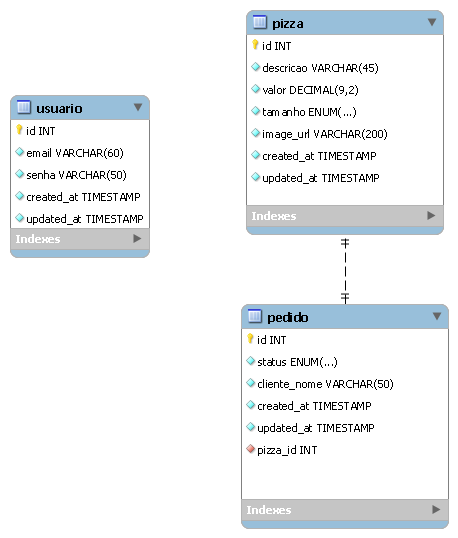
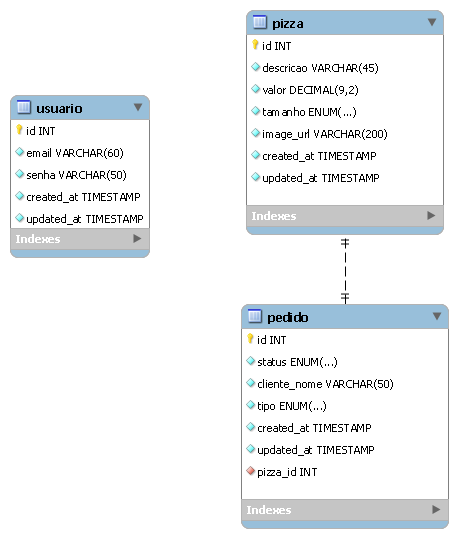
Update database

Changed region(s): [[0.5502, 0.7435, 0.8253, 0.803], [0.5197, 0.8327, 0.6725, 0.8922], [0.7031, 0.8327, 0.7948, 0.8625]]

diff --git a/src/backend/README.md b/src/backend/README.md
@@ -36,6 +36,7 @@ ENGINE = InnoDB;
 CREATE TABLE IF NOT EXISTS `pizza`.`pizza` (
   `id` INT UNSIGNED NOT NULL AUTO_INCREMENT,
   `descricao` VARCHAR(45) NOT NULL,
+  `valor` DECIMAL(9,2) UNSIGNED NOT NULL,
   `tamanho` ENUM('35CM', '45CM', '60CM') NOT NULL,
   `image_url` VARCHAR(200) NOT NULL,
   `created_at` TIMESTAMP NOT NULL,
@@ -51,8 +52,8 @@ ENGINE = InnoDB;
 CREATE TABLE IF NOT EXISTS `pizza`.`pedido` (
   `id` INT UNSIGNED NOT NULL AUTO_INCREMENT,
   `status` ENUM('PENDENTE', 'PRODUCAO', 'CONCLUIDO') NOT NULL,
-  `valor` DECIMAL(9,2) UNSIGNED NOT NULL,
   `cliente_nome` VARCHAR(50) NOT NULL,
+  `tipo` ENUM('PRESENCIAL', 'TELEFONE') NOT NULL,
   `created_at` TIMESTAMP NOT NULL,
   `updated_at` TIMESTAMP NOT NULL,
   `pizza_id` INT UNSIGNED NOT NULL,
@@ -64,10 +65,6 @@ CREATE TABLE IF NOT EXISTS `pizza`.`pedido` (
     ON DELETE NO ACTION
     ON UPDATE NO ACTION)
 ENGINE = InnoDB;
-
-ALTER TABLE `pizza`.`pedido`
-ADD COLUMN tipo ENUM('PRESENCIAL','TELEFONE');
-
 
 
 SET SQL_MODE=@OLD_SQL_MODE;
